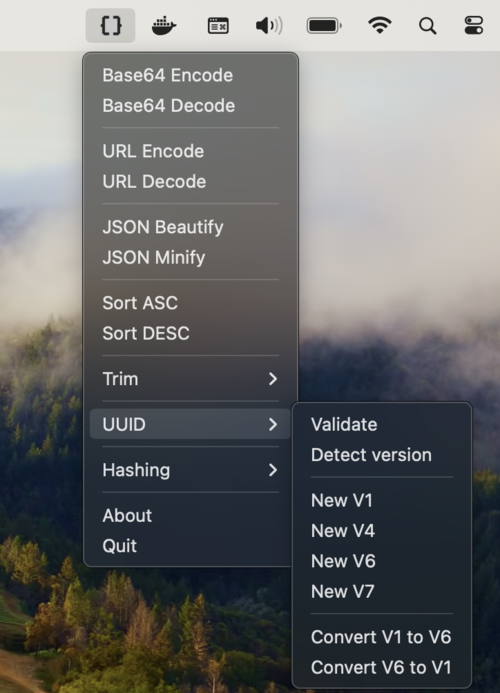
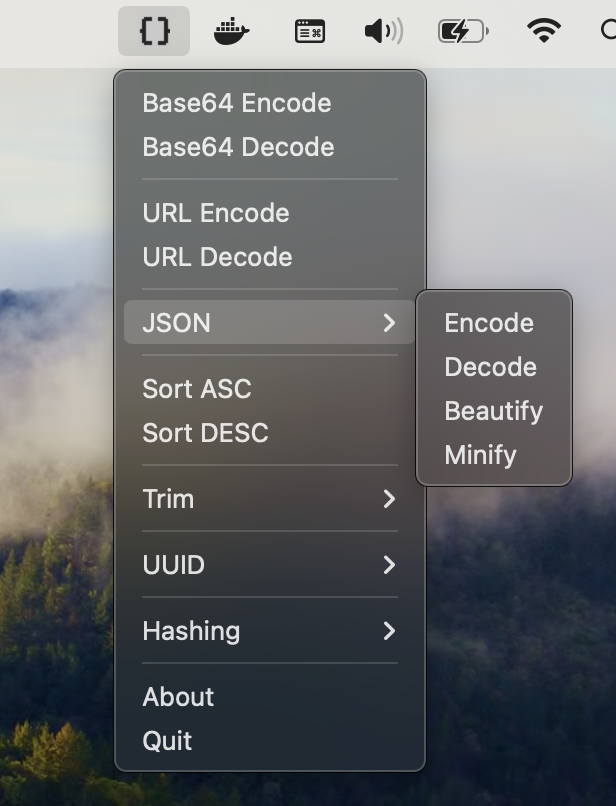
Add JSON encode/decode functions and update menu structure

diff --git a/main.js b/main.js
@@ -1,7 +1,7 @@
-const { updateElectronApp } = require('update-electron-app')
+const {updateElectronApp} = require('update-electron-app')
 updateElectronApp();
 
-const { app, Tray, Menu } = require("electron");
+const {app, Tray, Menu} = require("electron");
 const path = require("path");
 
 const createAboutWindow = require("./src/about/about");
@@ -31,7 +31,7 @@ app.whenReady().then(() => {
       label: "Base64 Decode",
       click: () => actions.encDec.base64Decode(),
     },
-    { type: "separator" },
+    {type: "separator"},
     {
       label: "URL Encode",
       click: () => actions.encDec.urlEncode(),
@@ -40,16 +40,29 @@ app.whenReady().then(() => {
       label: "URL Decode",
       click: () => actions.encDec.urlDecode(),
     },
-    { type: "separator" },
+    {type: "separator"},
     {
-      label: "JSON Beautify",
-      click: () => actions.json.beautify(),
+      label: "JSON",
+      submenu: [
+        {
+          label: "Beautify",
+          click: () => actions.json.beautify(),
+        },
+        {
+          label: "Minify",
+          click: () => actions.json.minify(),
+        },
+        {
+          label: "Encode",
+          click: () => actions.json.encode(),
+        },
+        {
+          label: "Decode",
+          click: () => actions.json.decode(),
+        },
+      ],
     },
-    {
-      label: "JSON Minify",
-      click: () => actions.json.minify(),
-    },
-    { type: "separator" },
+    {type: "separator"},
     {
       label: "Sort ASC",
       click: () => actions.sort.asc(),
@@ -58,7 +71,7 @@ app.whenReady().then(() => {
       label: "Sort DESC",
       click: () => actions.sort.desc(),
     },
-    { type: "separator" },
+    {type: "separator"},
     {
       label: "Trim",
       submenu: [
@@ -72,7 +85,7 @@ app.whenReady().then(() => {
         }
       ],
     },
-    { type: "separator" },
+    {type: "separator"},
     {
       label: "UUID",
       submenu: [
@@ -84,7 +97,7 @@ app.whenReady().then(() => {
           label: "Detect version",
           click: () => actions.uuid.detect(),
         },
-        { type: "separator" },
+        {type: "separator"},
         {
           label: "New V1",
           click: () => actions.uuid.newV1(),
@@ -101,7 +114,7 @@ app.whenReady().then(() => {
           label: "New V7",
           click: () => actions.uuid.newV7(),
         },
-        { type: "separator" },
+        {type: "separator"},
         {
           label: "Convert V1 to V6",
           click: () => actions.uuid.V1ToV6(),
@@ -112,7 +125,7 @@ app.whenReady().then(() => {
         },
       ],
     },
-    { type: "separator" },
+    {type: "separator"},
     {
       label: "Hashing",
       submenu: [
@@ -146,7 +159,7 @@ app.whenReady().then(() => {
         },
       ],
     },
-    { type: "separator" },
+    {type: "separator"},
     {
       label: "About",
       click: () => createAboutWindow(),

diff --git a/src/actions/json.js b/src/actions/json.js
@@ -19,3 +19,23 @@ exports.minify = () => {
     new Notification({title: "Error", body: e.message}).show();
   }
 }
+
+exports.encode = () => {
+  try {
+    const data = clipboard.readText();
+    clipboard.writeText(JSON.stringify(data));
+  } catch (e) {
+    console.error(e);
+    new Notification({title: "Error", body: e.message}).show();
+  }
+}
+
+exports.decode = () => {
+  try {
+    const data = JSON.parse(clipboard.readText());
+    clipboard.writeText(data);
+  } catch (e) {
+    console.error(e);
+    new Notification({title: "Error", body: e.message}).show();
+  }
+}

diff --git a/README.md b/README.md
@@ -6,9 +6,9 @@ Tool for developers. Perform operations on your clipboard data with ease.
 
 ## Features
 
-- Base64 Encode/Decode
-- URL Encode/Decode
-- JSON Beautify and Minify
+- Base64 Encode, Decode
+- URL Encode, Decode
+- JSON Encode, Decode, Beautify and Minify
 - Sorting and trimming
 - Generate, validate and detect UUID. Convert between UUID V1 and V6
 - Hashing (MD5, SHA, BLAKE)
